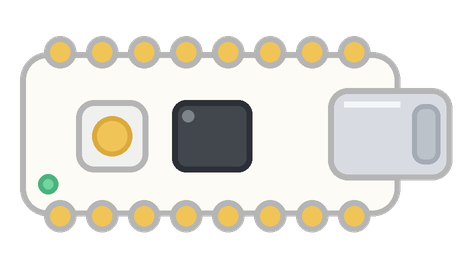
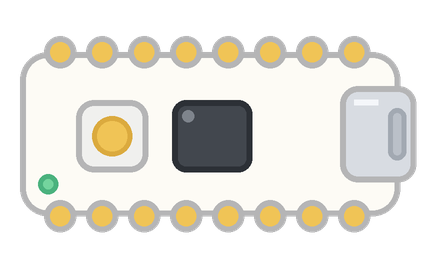
USB-C を実物の比率にした（よこ長すぎた）
実物は たてが すこし長いくらいなので、62x46 を 38x48 にして
たて長に直した。基板からの出っぱりも8pxにおさえた。
コネクタの口を右はしの縦長のくぼみとして描いてある。

Changed region(s): [[0.0301, 0.1194, 0.9931, 0.8657], [0.1505, 0.3582, 0.4514, 0.6567], [0.5116, 0.3582, 0.6019, 0.6567]]

diff --git a/tools/boardicon.py b/tools/boardicon.py
@@ -6,7 +6,7 @@ from PIL import Image, ImageDraw
 sys.stdout.reconfigure(encoding="utf-8")
 
 S = 4                                   # 拡大して描いてから縮める
-W, H = 234, 134
+W, H = 216, 134
 LINE  = (181, 181, 182)
 BOARD = (253, 251, 245)
 GOLD  = (240, 196, 86)
@@ -37,9 +37,9 @@ def draw(face):
         for edge in (26, 108):
             rr(d, [x - 8, edge - 8, x + 8, edge + 8], 8, GOLD)
     # USB-C（基板の右はしにのって、外へ出っぱる）
-    rr(d, [164, 44, 226, 90], 10, USB)
-    rr(d, [206, 52, 220, 82], 6, (188, 194, 202), (164, 171, 180), 2.5)
-    d.line(s([172, 52, 200, 52]), fill=(244, 246, 249), width=int(3 * S))
+    rr(d, [170, 43, 208, 91], 9, USB)          # 実物は たてが すこし長い
+    rr(d, [194, 54, 203, 80], 4.5, (186, 192, 200), (162, 169, 178), 2.5)
+    d.line(s([177, 51, 189, 51]), fill=(245, 247, 250), width=int(3 * S))
     # マイコン
     rr(d, [86, 50, 126, 86], 7, CHIP, (44, 48, 54))
     if face:
